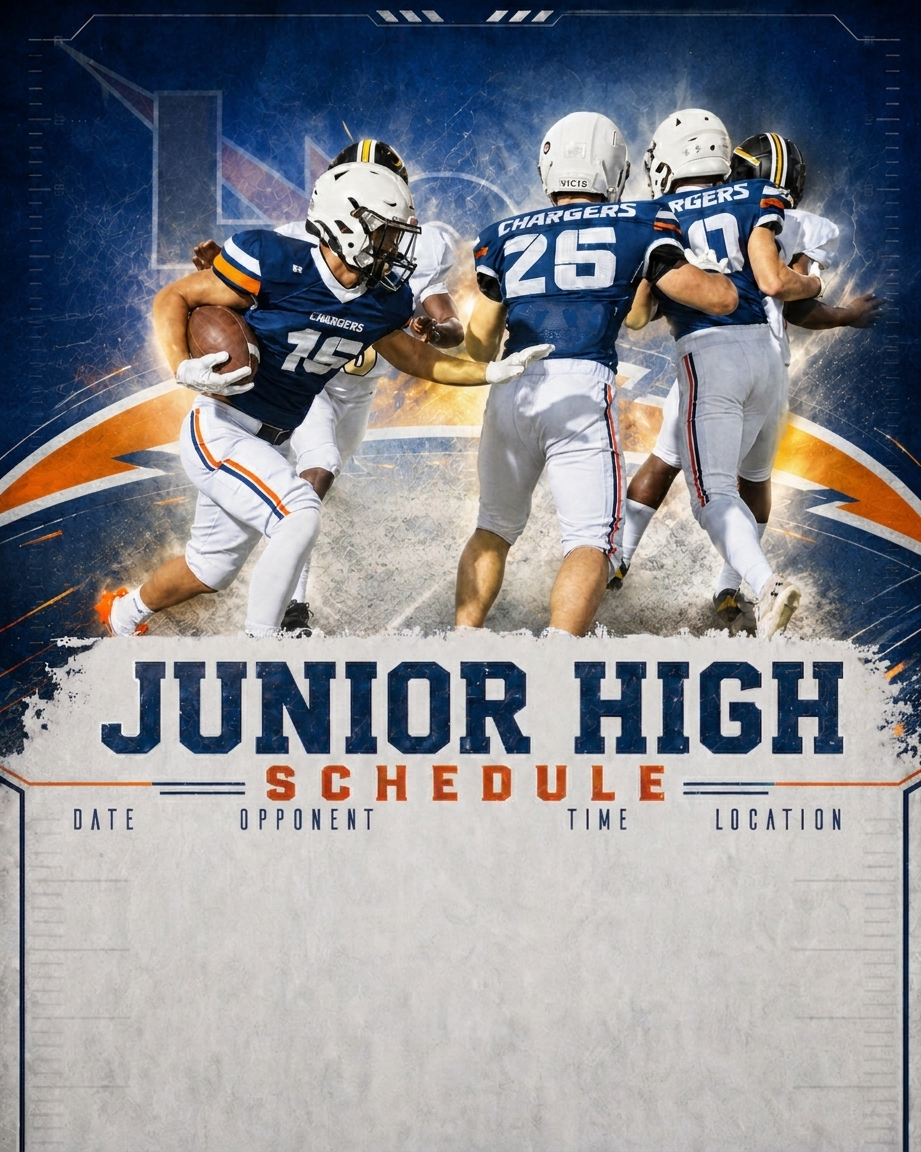
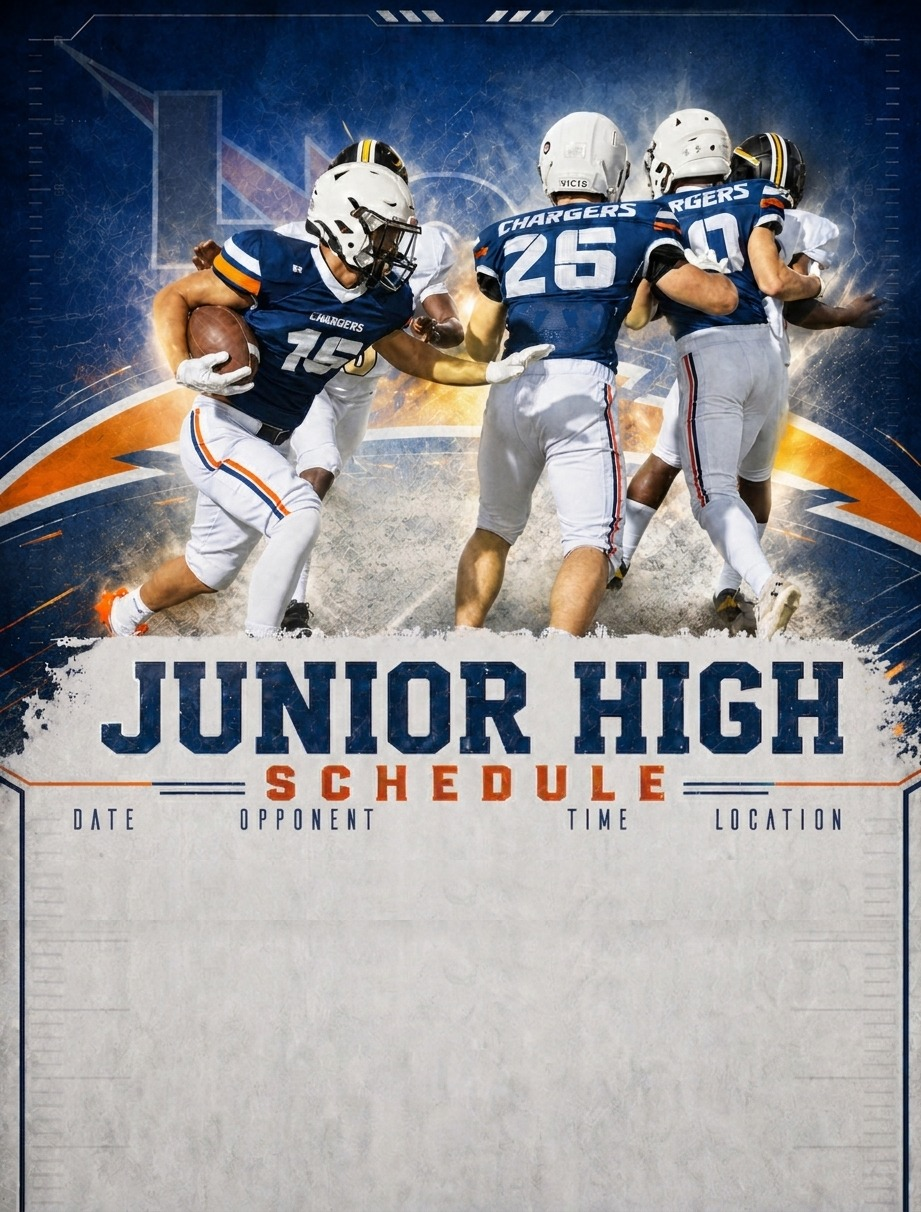
Extend schedule background images so late-season rows stop clipping (#10)
* Extend schedule background images so late-season rows stop getting cut off

Confirmed live: the Varsity/JV/JH schedule cards' background images
(v_bg.jpeg/jv_bg.jpeg/jh_bg.jpeg, 921x1152) weren't tall enough for a
full season's rows once playoffs got added, so the last 1-2 rows
rendered past the image's own bottom edge onto the plain page
background instead of on the card.

All three images extended to 921x1472 (+320px) by tiling a feathered
(cross-faded) strip of blank texture from each image's own lower,
content-free zone - the photo, team-name art, and column-label text
above that point are byte-for-byte untouched, never resized or
stretched, so nothing in the existing artwork is distorted and no
text shrinks.

football.css's schedule-grid top:/bottom: percentages (and the
win-loss record overlay's top: calc()) are all relative to the whole
image's height, so every one of them was rescaled by 1152/1472 to
keep landing on the exact same absolute pixel position in the
unchanged top art - see the new comments in the TUNER OUTPUT REGION
and the record-position block for the exact derivation, and a note
for next time either image's height changes.

Verified with Playwright against the real rendering path
(schedule-preview.html, in lcc_sportsengine/scripts) at both a narrow
mobile width and a wide desktop width (the two extremes of the
schedule grid's responsive font-size clamp), using a 20-row stress
test for Varsity (today's real count plus several hypothetical
[…]

diff --git a/css/football.css b/css/football.css
@@ -121,13 +121,52 @@
    NOTE: this region used to live directly in HEAD.html - it now
    lives here in football.css instead. Same copy/paste workflow,
    different destination file.
-   ============================================================ */
+
+   BACKGROUND IMAGES GREW TALLER (requested directly - schedule
+   rows were running past the image's own bottom edge once a
+   season had enough games): v_bg.jpeg/jv_bg.jpeg/jh_bg.jpeg each
+   went from 921x1152 to a per-team row-capacity target, by tiling a
+   feathered strip of blank texture below the header art - the
+   photo/title/column-label art above that point is pixel-identical
+   to before, not stretched, so this is purely more room for rows,
+   never smaller text. Every top:/bottom: % below is relative to
+   the WHOLE image's height, so each one was rescaled by
+   1152/new_height to land on the exact same absolute pixel
+   position as before within that untouched top art - a straight
+   re-tune in schedule-css-tuner.html against the new images would
+   land on the same numbers (it measures the live image, not a
+   hardcoded height), but if you ever paste in OLDER saved tuner
+   output instead, rescale its top/bottom by the same ratio first or
+   the schedule grid will start too high again.
+
+   SIZING NOTE: target row capacity is 14 Varsity / 12 JV / 8 JH
+   (picked directly, not a shared rule), so each image got its own
+   extra height:
+     v_bg.jpeg:  921x1152 -> 921x1287 (+135px, today 13 rows, target 14)
+     jv_bg.jpeg: 921x1152 -> 921x1327 (+175px, today 11 rows, target 12)
+     jh_bg.jpeg: 921x1152 -> 921x1212 (+60px,  today 8 rows,  target 8)
+   JH's target equals its current row count, but it still needed
+   +60px: even at today's 8 rows the ORIGINAL 1152px image already
+   clipped on narrow phones (not on desktop), so some extension was
+   unavoidable just to stop clipping where things stand right now,
+   with no additional row headroom built in.
+   Checked for clipping at the target row counts across viewport
+   widths from 300px (narrow phones) up through 1440px desktop -
+   narrow phones are the real worst case here, not desktop, because
+   the image renders at a smaller CSS pixel width there so the same
+   row overflows into more natural image pixels. Each has ~18-19px
+   of margin at its target row count at the worst width tested
+   (vw=300). Below the target (true today for all three), there's
+   blank space at the bottom by design. If any target changes,
+   re-run /tmp/extend_bg.py (if still around) or regenerate with a
+   new extra_px per image and rescale these percentages by
+   old_height/new_height the same way. */
    /* Your Exact Varsity Placement Blueprint */
    .chargers-varsity-overlay {
      left: 7.5% !important;
      right: 3.5% !important;
-     top: 66% !important;
-     bottom: 2% !important;
+     top: 59.08% !important; /* 66% * (1152/1287) */
+     bottom: 1.79% !important; /* 2% * (1152/1287) */
      font-size: clamp(7px, 1.25vw, 18px) !important;
      line-height: 1.6 !important;
    }
@@ -135,8 +174,8 @@
    .chargers-jv-overlay {
      left: 7.5% !important;
      right: -0.5% !important;
-     top: 73% !important;
-     bottom: 2% !important;
+     top: 63.37% !important; /* 73% * (1152/1327) */
+     bottom: 1.74% !important; /* 2% * (1152/1327) */
      font-size: clamp(8px, 1.45vw, 18px) !important;
      line-height: 1.5 !important;
    }
@@ -144,8 +183,8 @@
    .chargers-jh-overlay {
      left: 7.5% !important;
      right: -0.5% !important;
-     top: 73% !important;
-     bottom: 2% !important;
+     top: 69.39% !important; /* 73% * (1152/1212) */
+     bottom: 1.90% !important; /* 2% * (1152/1212) */
      font-size: clamp(8px, 1.45vw, 18px) !important;
      line-height: 1.7 !important;
    }
@@ -246,15 +285,30 @@
    width, that's the number to nudge, not the calc() structure.
    If you change the font or a background image, recompute rather
    than nudging by eye - see this file's git history for the
-   measurement approach. */
+   measurement approach.
+
+   RESCALED for the taller background images - see the TUNER OUTPUT
+   REGION comment above for why, and for each image's own new
+   height (v: 1287, jv: 1327, jh: 1212 - each team was rescaled by
+   its OWN ratio, not a shared one, since each image grew by a
+   different amount). The measured team_name_top_pct values above
+   are still relative to each ORIGINAL 1152px-tall image (that art
+   didn't move or resize), so each final percentage below is the
+   original (team_name_top_pct - 0.0243) figure multiplied by
+   1152/<that team's new height> - preserving the exact same
+   absolute pixel position for the record text, not a fresh
+   measurement. Recompute from the original team_name_top_pct
+   values (scaled by whatever the current/original height ratio
+   is), never by nudging these directly, if any image's height
+   changes again. */
 .chargers-record-varsity {
-  top: calc(47.27% - 1.02em) !important; /* (0.497 - 0.0243) - 1.02em */
+  top: calc(42.31% - 1.02em) !important; /* (0.497 - 0.0243) * (1152/1287) */
 }
 .chargers-record-jv {
-  top: calc(54.07% - 1.02em) !important; /* (0.565 - 0.0243) - 1.02em */
+  top: calc(46.94% - 1.02em) !important; /* (0.565 - 0.0243) * (1152/1327) */
 }
 .chargers-record-jh {
-  top: calc(53.77% - 1.02em) !important; /* (0.562 - 0.0243) - 1.02em */
+  top: calc(51.11% - 1.02em) !important; /* (0.562 - 0.0243) * (1152/1212) */
 }
 .chargers-record-varsity,
 .chargers-record-jv,
